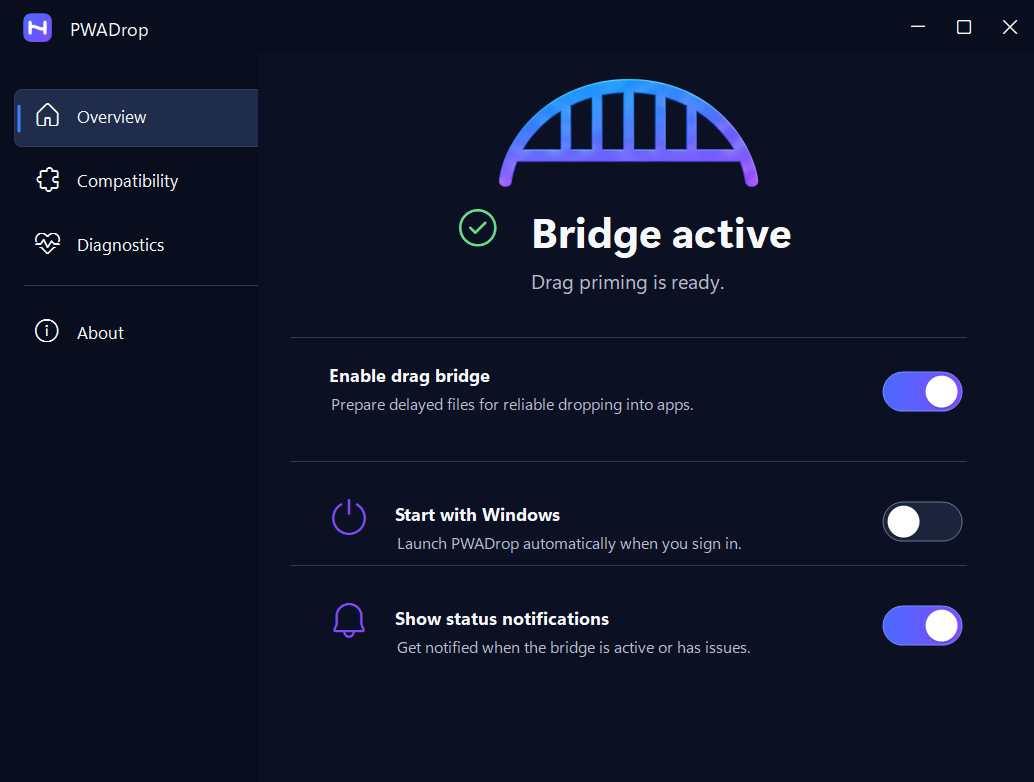
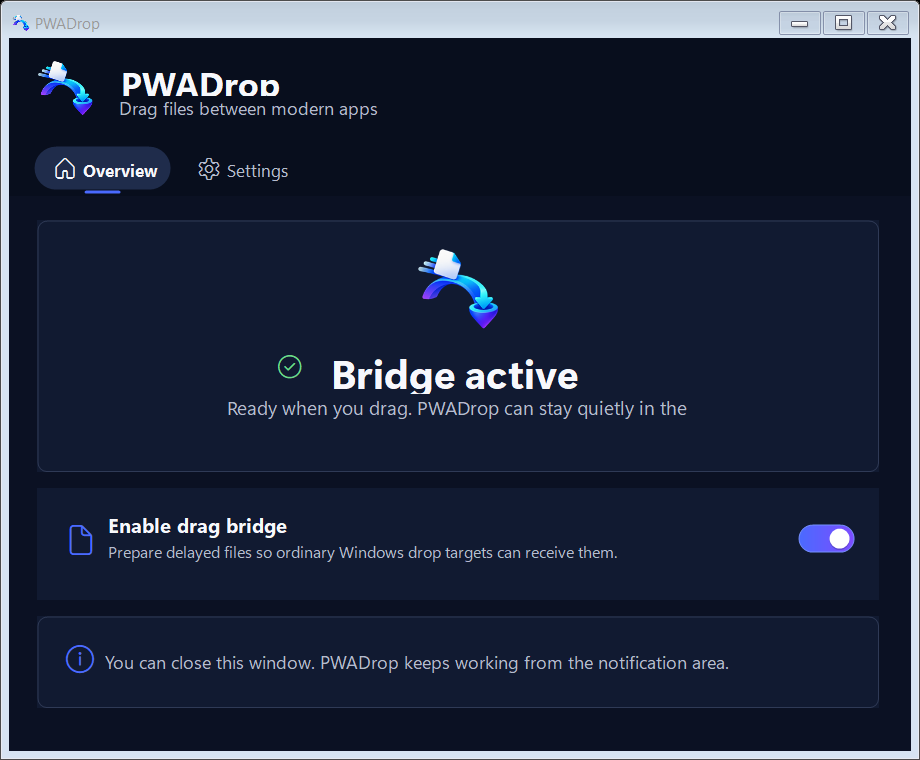
docs: expand the website compatibility guide

diff --git a/website/app/page.tsx b/website/app/page.tsx
@@ -64,27 +64,54 @@ export default function Home() {
 
       <section className="compatibility" id="compatibility">
         <div className="section-heading">
-          <p className="eyebrow"><span /> Built for the awkward gap</p>
-          <h2>Modern sources. Ordinary destinations.</h2>
-          <p>PWADrop is designed for delayed file drags from Chromium-based Windows apps and destinations that already accept normal files.</p>
+          <p className="eyebrow"><span /> Compatibility</p>
+          <h2>One bridge for the apps you already use.</h2>
+          <p>The current Windows build recognizes common Chromium, WebView2, and Electron source families, then hands the drag to any destination that accepts normal Windows files.</p>
         </div>
-        <div className="compat-grid">
-          <article>
-            <p className="card-kicker">Drag from</p>
-            <h3>Modern Windows apps</h3>
-            <p>New Outlook, supported browsers, web apps, and compatible desktop clients that produce files only when a drop occurs.</p>
+        <div className="compat-board">
+          <article className="compat-column">
+            <div className="compat-column-heading">
+              <span className="direction-mark" aria-hidden="true">↗</span>
+              <div><p className="card-kicker">Drag from</p><h3>Supported source families</h3></div>
+            </div>
+            <div className="app-group">
+              <strong>Browsers &amp; installed web apps</strong>
+              <p>Edge, Chrome, Brave, Chromium, Opera, Vivaldi, and compatible PWAs running through them.</p>
+            </div>
+            <div className="app-group">
+              <strong>WebView2 apps</strong>
+              <p>New Outlook and New Teams, including files and messages exposed through their Windows drag objects.</p>
+            </div>
+            <div className="app-group">
+              <strong>Recognized Electron apps</strong>
+              <p>Slack, Missive, Superhuman, and other explicitly supported, trusted application roots.</p>
+            </div>
           </article>
-          <article>
-            <p className="card-kicker">Drop into</p>
-            <h3>The targets you already use</h3>
-            <p>Browser upload zones, cloud-drive pages, creative tools, desktop software, and other standard Windows file targets.</p>
-          </article>
-          <article>
-            <p className="card-kicker">Stay local</p>
-            <h3>No PWADrop cloud</h3>
-            <p>The handoff happens on your PC. PWADrop has no account system, advertising SDK, or remote file-processing service.</p>
+          <div className="compat-bridge" aria-hidden="true"><span>PWADrop</span><b>→</b></div>
+          <article className="compat-column">
+            <div className="compat-column-heading">
+              <span className="direction-mark destination" aria-hidden="true">↓</span>
+              <div><p className="card-kicker">Drop into</p><h3>Standard file destinations</h3></div>
+            </div>
+            <div className="app-group">
+              <strong>Browser upload surfaces</strong>
+              <p>Google Drive, cloud storage, ticketing tools, compose windows, and sites that accept ordinary file drops.</p>
+            </div>
+            <div className="app-group">
+              <strong>Windows desktop apps</strong>
+              <p>File Explorer, WinForms, WPF, creative tools, and other applications that accept standard file paths.</p>
+            </div>
+            <div className="app-group">
+              <strong>No destination plug-in</strong>
+              <p>The target receives a normal Windows file drop, so it does not need to know PWADrop exists.</p>
+            </div>
           </article>
         </div>
+        <aside className="compat-note">
+          <strong>Designed for normal user sessions on Windows 11.</strong>
+          <span>Elevated apps, ARM64, security-restricted enterprise environments, and unknown Electron executables may require separate validation. App updates can also change drag behavior.</span>
+          <a href="/faq">Read compatibility FAQs <span aria-hidden="true">→</span></a>
+        </aside>
       </section>
 
       <section className="demo-section" id="demos">

diff --git a/website/app/globals.css b/website/app/globals.css
@@ -93,11 +93,24 @@ h1 { margin: 0; max-width: 650px; font-size: clamp(48px, 6vw, 78px); line-height
 .steps p { margin: 0; color: var(--muted); line-height: 1.6; font-size: 14px; }
 
 .compatibility { padding: 120px max(20px, calc((100vw - 1180px) / 2)); background: rgba(14, 21, 39, .66); border-block: 1px solid var(--line); }
-.compat-grid { margin-top: 56px; display: grid; grid-template-columns: repeat(3, 1fr); gap: 18px; }
-.compat-grid article { min-height: 270px; padding: 32px; border: 1px solid var(--line); border-radius: 17px; background: linear-gradient(150deg, rgba(27, 37, 67, .78), rgba(10, 16, 31, .82)); }
+.compat-board { margin-top: 56px; display: grid; grid-template-columns: 1fr 104px 1fr; align-items: stretch; }
+.compat-column { padding: 34px; border: 1px solid var(--line); border-radius: 18px; background: linear-gradient(150deg, rgba(27, 37, 67, .78), rgba(10, 16, 31, .82)); }
+.compat-column-heading { display: flex; align-items: center; gap: 18px; padding-bottom: 28px; border-bottom: 1px solid var(--line); }
+.compat-column-heading h3 { margin: 5px 0 0; font-size: 23px; }
+.direction-mark { width: 48px; height: 48px; flex: 0 0 48px; display: grid; place-items: center; border-radius: 14px; color: white; font-size: 25px; font-weight: 800; background: linear-gradient(135deg, var(--blue), var(--violet)); box-shadow: 0 12px 30px rgba(69, 86, 255, .24); }
+.direction-mark.destination { background: linear-gradient(135deg, #1bbde4, var(--blue)); }
+.app-group { padding: 24px 0; }
+.app-group + .app-group { border-top: 1px solid rgba(132, 151, 233, .13); }
+.app-group strong { display: block; font-size: 15px; }
+.app-group p { margin: 9px 0 0; color: var(--muted); font-size: 14px; line-height: 1.62; }
+.compat-bridge { display: flex; flex-direction: column; align-items: center; justify-content: center; gap: 12px; color: #91a3d7; }
+.compat-bridge span { padding: 8px 11px; border: 1px solid rgba(115, 137, 233, .27); border-radius: 999px; font-size: 10px; font-weight: 800; letter-spacing: .08em; text-transform: uppercase; background: #0c1427; }
+.compat-bridge b { color: #6c80ff; font-size: 26px; }
+.compat-note { margin-top: 18px; padding: 22px 24px; display: grid; grid-template-columns: auto 1fr auto; align-items: center; gap: 18px; border: 1px solid var(--line); border-radius: 15px; background: rgba(11, 17, 33, .72); }
+.compat-note strong { font-size: 13px; }
+.compat-note span { color: var(--muted); font-size: 13px; line-height: 1.55; }
+.compat-note a { white-space: nowrap; color: #84b8ff; font-size: 13px; text-decoration: none; }
 .card-kicker { color: #7889be; font-size: 12px; font-weight: 800; letter-spacing: .12em; text-transform: uppercase; }
-.compat-grid h3 { margin: 48px 0 14px; font-size: 23px; }
-.compat-grid article > p:last-child { color: var(--muted); font-size: 14px; line-height: 1.65; }
 
 .demo-section { width: min(1180px, calc(100% - 40px)); margin: auto; padding: 120px 0; display: grid; grid-template-columns: .8fr 1.2fr; align-items: center; gap: 70px; }
 .demo-section h2, .faq-callout h2 { margin: 0; font-size: clamp(38px, 4vw, 54px); letter-spacing: -.045em; line-height: 1.05; }
@@ -140,7 +153,11 @@ h1 { margin: 0; max-width: 650px; font-size: clamp(48px, 6vw, 78px); line-height
 @media (max-width: 900px) {
   .hero { grid-template-columns: 1fr; padding-top: 68px; }
   .product-frame { max-width: 700px; }
-  .signal-strip, .steps, .compat-grid, .policy-summary { grid-template-columns: 1fr; }
+  .signal-strip, .steps, .policy-summary { grid-template-columns: 1fr; }
+  .compat-board { grid-template-columns: 1fr; gap: 16px; }
+  .compat-bridge { min-height: 56px; flex-direction: row; }
+  .compat-bridge b { transform: rotate(90deg); }
+  .compat-note { grid-template-columns: 1fr; }
   .signal-strip div + div, .steps li + li { border-left: 0; border-top: 1px solid var(--line); }
   .steps li { min-height: 220px; }
   .demo-section { grid-template-columns: 1fr; }

diff --git a/website/app/faq/page.tsx b/website/app/faq/page.tsx
@@ -14,12 +14,12 @@ const questions = [
   ["What does PWADrop fix?", "Some modern Windows apps create a file only after a destination accepts a drop. Many destinations do not complete that optional Windows negotiation. PWADrop bridges the handoff at the source so the original drag can continue as a normal file drop."],
   ["Does PWADrop upload my files?", "No. PWADrop has no remote file-processing service. Files are prepared locally. If you drop a file into a cloud service or website, that destination may upload it under its own privacy terms."],
   ["Does it require administrator access?", "No. PWADrop runs as the signed-in user and refuses elevated or cross-user source processes."],
-  ["Which apps are supported?", "PWADrop is designed for supported Chromium-based Windows sources and ordinary Windows file destinations. Compatibility varies by application version and security policy; a tested matrix and short demos will be published before launch."],
+  ["Which apps are supported?", "The current build recognizes supported Chromium browsers and PWAs, New Outlook and New Teams through WebView2, plus explicitly recognized Electron apps such as Slack. It can drop into Google Drive, browser upload zones, File Explorer, and desktop apps that accept standard Windows files. Compatibility can still vary by app version and security policy."],
   ["Why purchase it if the source is available?", "The Store edition provides a trusted Microsoft-signed install, automatic updates, simple removal, and a supported release channel. Source access supports transparency, learning, and community contributions."],
   ["Can I build it myself?", "The repository is available for study, contribution, and uses permitted by its source-available license. Building requires a Windows native and .NET development toolchain. Commercial use requires an appropriate paid license."],
   ["Is it open source?", "PWADrop is source-available under the PolyForm Noncommercial License. Because commercial use is restricted, it is not an OSI-approved open-source license."],
   ["How will paid upgrades work?", "A purchased major version is intended to remain usable perpetually and receive its bug and security fixes. A future major version with substantial new features may be sold separately."],
-  ["Does PWADrop collect telemetry?", "No custom telemetry is included today. PWADrop keeps redacted diagnostics locally. Microsoft may provide RiddleNEXT with aggregate Store acquisition, usage, and reliability reports under Microsoft’s privacy terms."],
+  ["Does PWADrop collect telemetry?", "No custom telemetry is included today. Microsoft may provide RiddleNEXT with aggregate Store acquisition, usage, and reliability reports under Microsoft’s privacy terms."],
   ["Can organizations deploy it?", "Yes. Business and enterprise licensing and deployment documentation will support per-user and managed-device scenarios, including common Windows management tools."],
 ];
 
